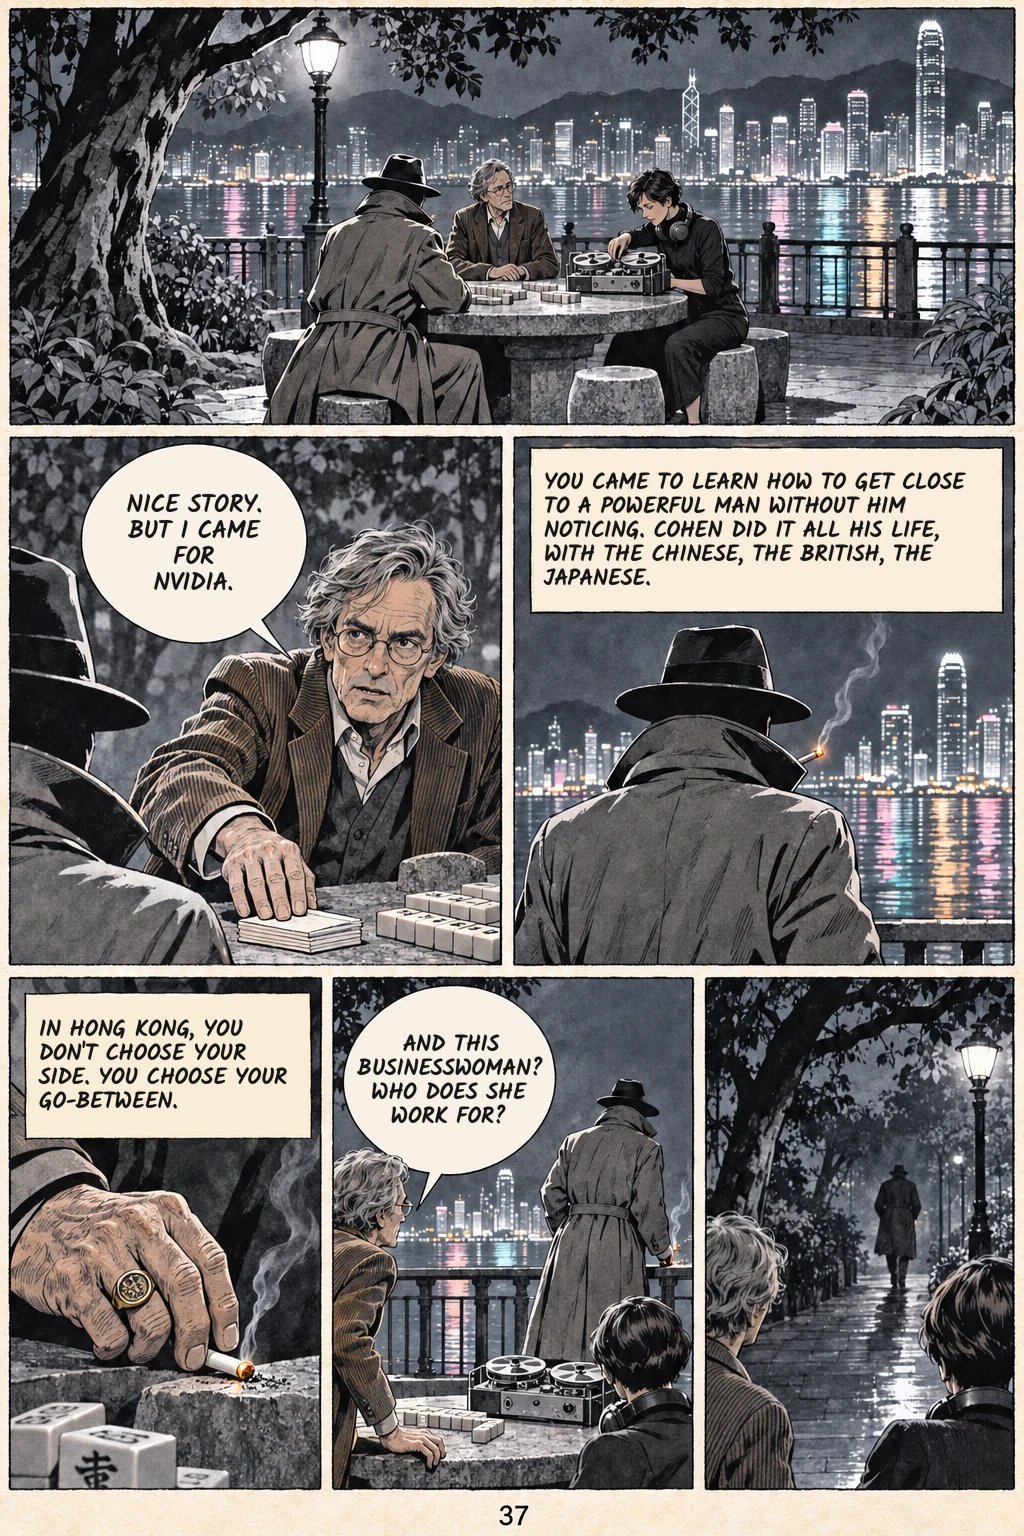
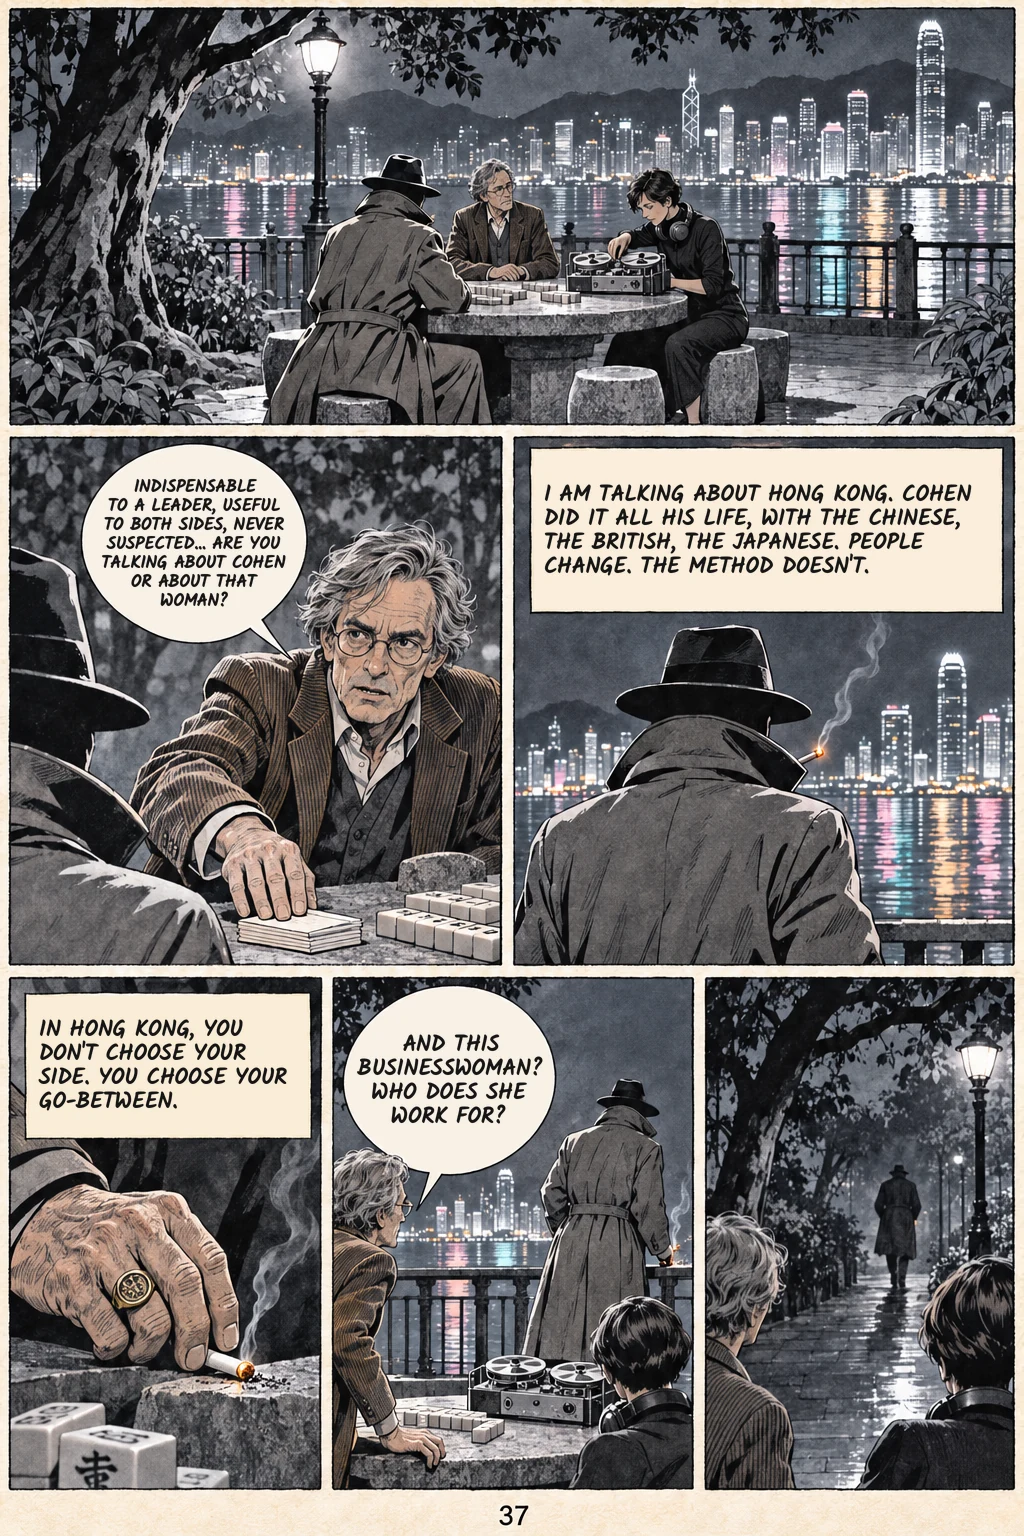
Monsieur X ép. 3, planche 37 : le Journaliste fait lui-même le rapprochement Cohen / Nvidia (FR et EN)
Claude-Session: https://claude.ai/code/session_01NEt4fXoTkRLhfzronFgkmK

Changed region(s): [[0.5312, 0.3125, 0.9375, 0.4062], [0.0938, 0.3125, 0.2812, 0.4062]]

diff --git a/tools/lettering-src/ep3_comic.py b/tools/lettering-src/ep3_comic.py
@@ -187,8 +187,8 @@ PAGES = {
         (B,655,585,"THEY DON'T|TALK TO|EACH OTHER?"),
         (B,904,944,"THEY CAME|FOR HIM.|THAT'S ALREADY|A LOT."),
         (C,683,1109,"THE CHINESE INSCRIPTION COMES FROM SOONG CHING-LING, THE DOCTOR'S WIDOW, NOW ONE OF PEKING'S HIGHEST DIGNITARIES. HER LAST FAVOUR.")],
-"p47": [(B,193,534,"NICE STORY.|BUT I CAME|FOR|NVIDIA."),
-        (C,756,529,"YOU CAME TO LEARN HOW TO GET CLOSE TO A POWERFUL MAN WITHOUT HIM NOTICING. COHEN DID IT ALL HIS LIFE, WITH THE CHINESE, THE BRITISH, THE JAPANESE."),
+"p47": [(B,193,534,"INDISPENSABLE TO A LEADER, USEFUL TO BOTH SIDES, NEVER SUSPECTED… ARE YOU TALKING ABOUT COHEN OR ABOUT THAT WOMAN?"),
+        (C,756,529,"I AM TALKING ABOUT HONG KONG. COHEN DID IT ALL HIS LIFE, WITH THE CHINESE, THE BRITISH, THE JAPANESE. PEOPLE CHANGE. THE METHOD DOESN'T."),
         (C,167,1056,"IN HONG KONG, YOU DON'T CHOOSE YOUR SIDE. YOU CHOOSE YOUR GO-BETWEEN."),
         (B,454,1079,"AND THIS|BUSINESSWOMAN?|WHO DOES SHE|WORK FOR?")],
 "p48": [(B,171,119,"YOUR FRIEND|TALKS WELL.|HE ALWAYS|LIKED OLD|STORIES|TOO MUCH."),
